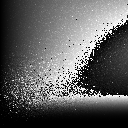
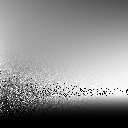
feat: update eavg

diff --git a/hw4/lut-gen/Eavg_MC.cpp b/hw4/lut-gen/Eavg_MC.cpp
@@ -81,9 +81,9 @@ Vec3f IntegrateEmu(Vec3f V, float roughness, float NdotV, Vec3f Ei) {
         float NoV = std::max(dot(N, V), 0.0f); // n.v
         float param = 2.0f;
         // TODO: To calculate Eavg here
-        Vec3f radiance = Ei * param * NdotV;
-
-        Eavg = Eavg + (radiance * INV_TWO_PI);
+        Vec3f radiance = (Ei * NoL) * param;
+        // 这里不是做蒙特卡洛积分 需要注意
+        Eavg = Eavg + radiance;
     }
 
     return Eavg / sample_count;

diff --git a/hw4/lut-gen/Emu_MC.cpp b/hw4/lut-gen/Emu_MC.cpp
@@ -99,7 +99,7 @@ Vec3f IntegrateBRDF(Vec3f V, float roughness, float NdotV) {
       float denominator = std::max((4 * NoV * NoL),0.0001f);
 
       Vec3f brdf = (F * g * d) / denominator;
-      float cos_theta = NoV;
+      float cos_theta = NoL;
 
       Vec3f radiance_s = brdf * cos_theta;
       
